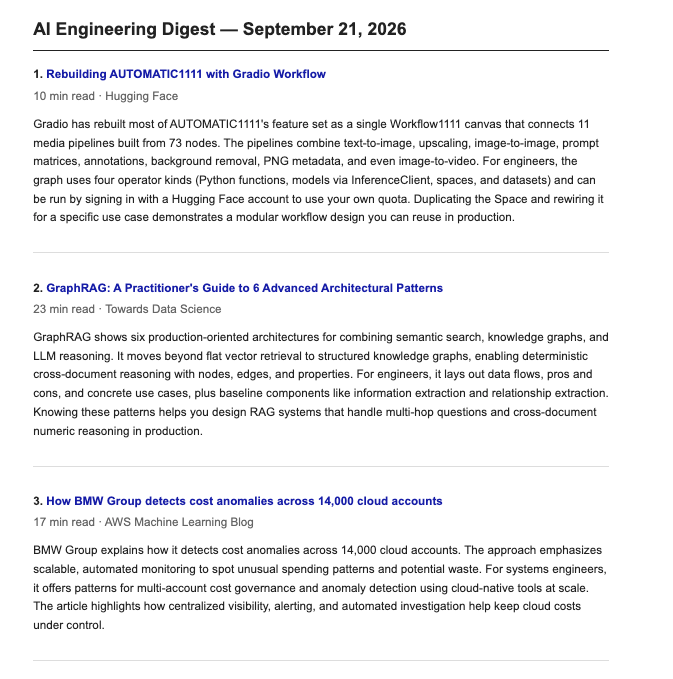
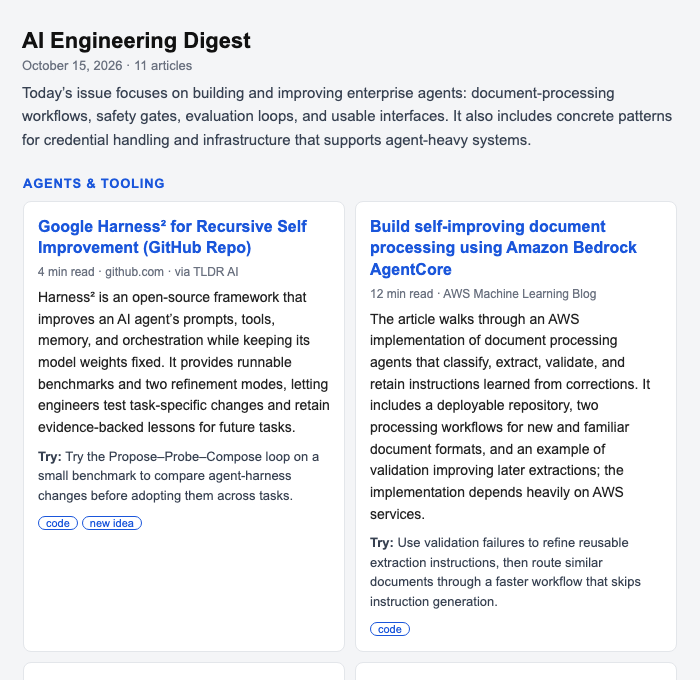
Projects cards: lift on hover; refresh newsletter card image

Changed region(s): [[0.0312, 0.0309, 0.9673, 0.9588]]

diff --git a/src/components/Projects.jsx b/src/components/Projects.jsx
@@ -13,7 +13,19 @@ import HackAwayHungerSchema from "../media/hack_away_hunger_schema.png";
 import mask_nomask from "../media/mask_nomask.png";
 import Covid_Iowa from "../media/Covid_Iowa.JPG";
 
-const cardSx = { maxWidth: 345, margin: 1, minWidth: "33%" };
+// Shared card style. On hover the card lifts slightly so it's clear it can be interacted with;
+// people who ask their system for reduced motion get the shadow only.
+const cardSx = {
+  maxWidth: 345,
+  margin: 1,
+  minWidth: "33%",
+  transition: "transform 0.2s ease, box-shadow 0.2s ease",
+  "&:hover": { transform: "translateY(-4px)", boxShadow: 6 },
+  "@media (prefers-reduced-motion: reduce)": {
+    transition: "box-shadow 0.2s ease",
+    "&:hover": { transform: "none", boxShadow: 6 },
+  },
+};
 
 export default function Projects() {
   return (
